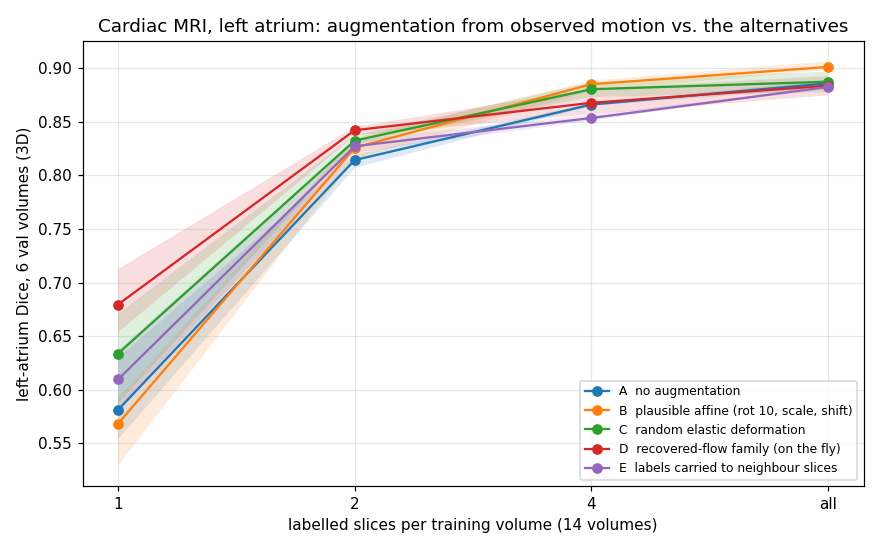
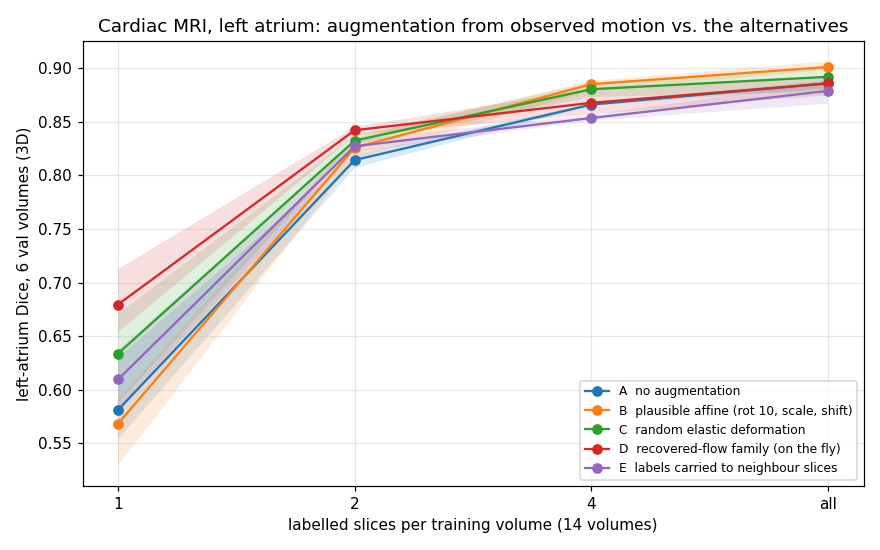
Heart grid complete: all 60 cells, all-labels row at n=3

Changed region(s): [[0.675, 0.1236, 0.9511, 0.2164]]

diff --git a/README.md b/README.md
@@ -309,7 +309,7 @@ where the anatomy has changed beyond what a chain of slice-to-slice flows can fo
 | 1 | 0.581 ± 0.035 | 0.568 ± 0.028 | 0.634 ± 0.035 | **0.680 ± 0.025** | 0.610 ± 0.022 |
 | 2 | 0.814 ± 0.005 | 0.826 ± 0.008 | 0.833 ± 0.004 | **0.842 ± 0.003** | 0.827 ± 0.005 |
 | 4 | 0.866 ± 0.001 | **0.885 ± 0.004** | 0.880 ± 0.006 | 0.868 ± 0.010 | 0.854 ± 0.002 |
-| all (~65) | 0.886 ± 0.003 | **0.901 ± 0.004** | 0.887 | 0.884 | 0.882 |
+| all (~65) | 0.886 ± 0.003 | **0.901 ± 0.004** | 0.892 ± 0.010 | 0.886 ± 0.008 | 0.879 ± 0.009 |
 
 **Verdict against the pre-registered criteria.** At one labelled slice per patient the recovered-flow family
 is the best of the five arms: **+11.1 Dice points over plausible affine** (H1, supported, seed ranges
